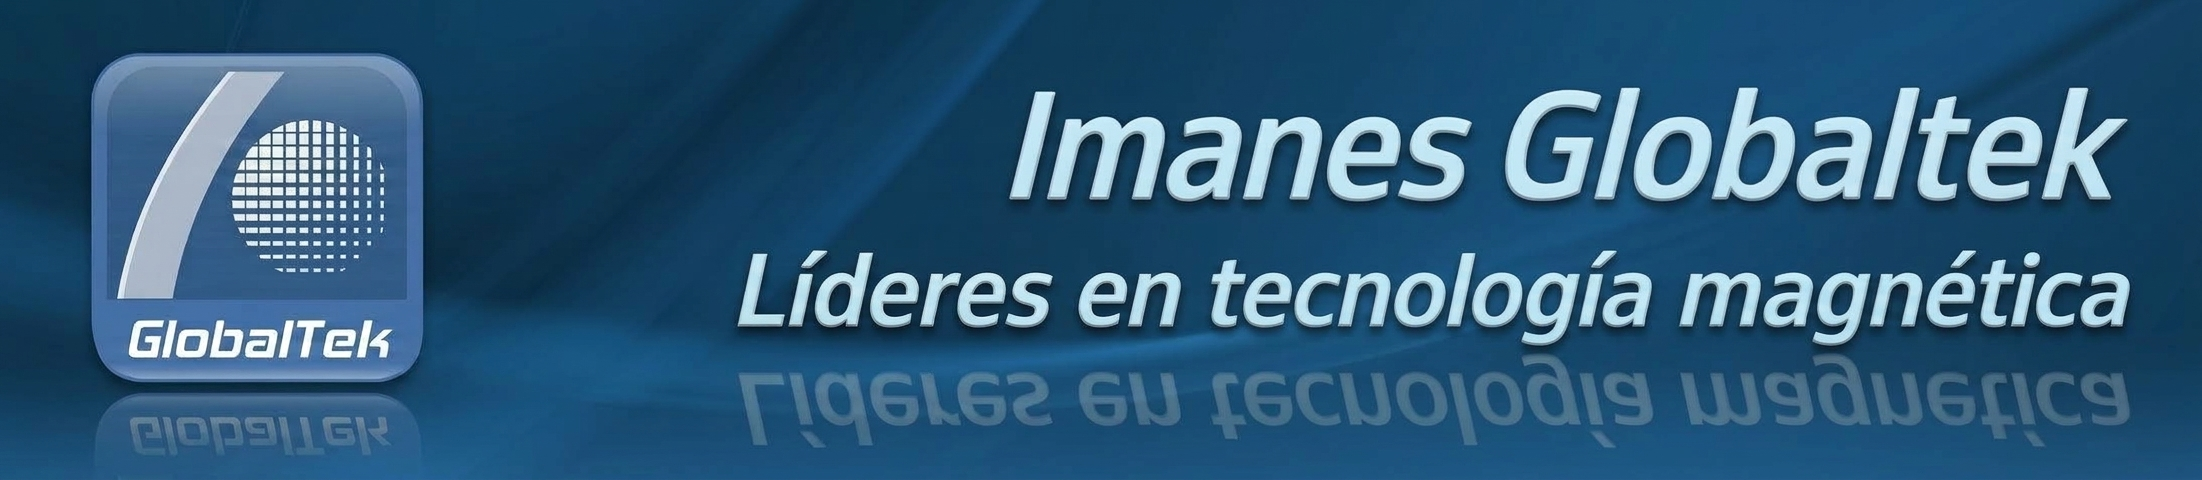
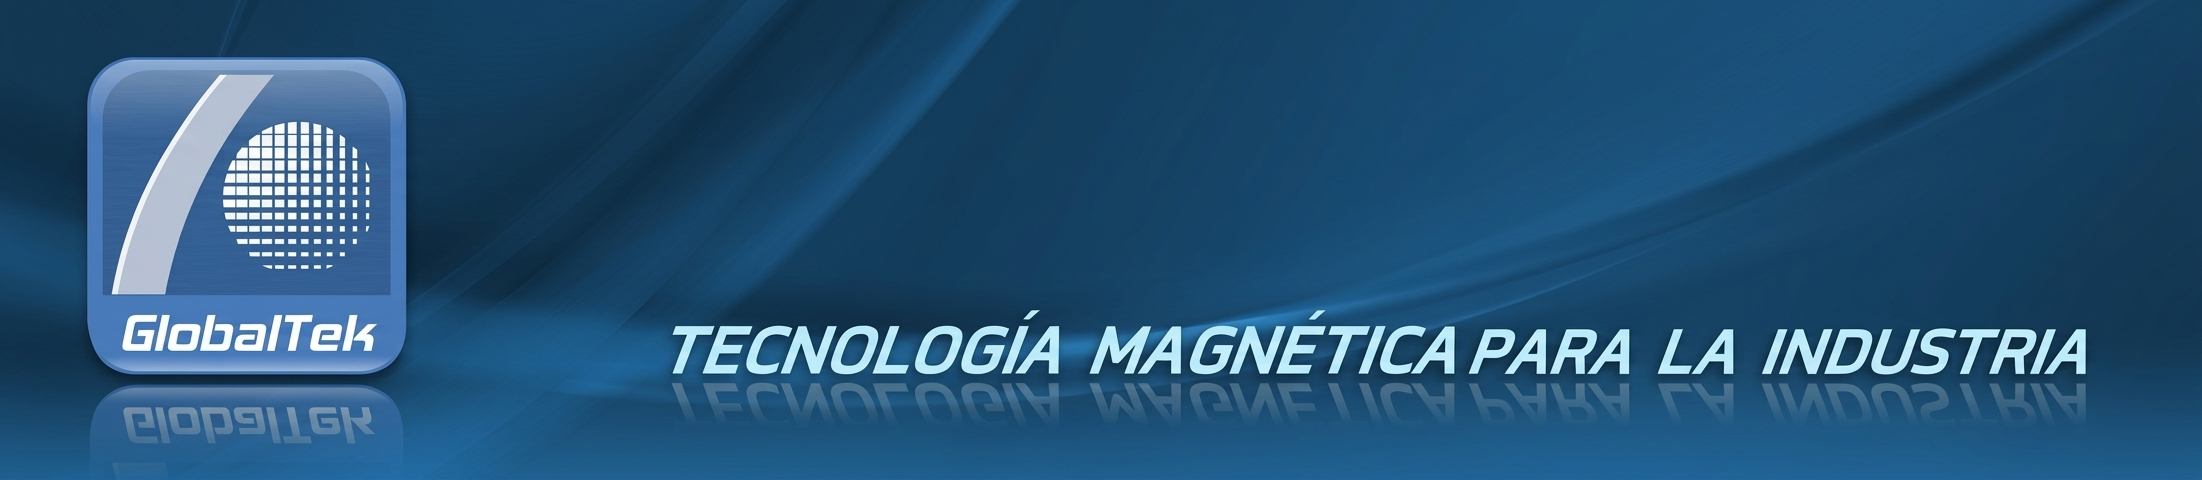
Add files via upload

diff --git a/usos-frecuentes.html b/usos-frecuentes.html
@@ -20,7 +20,7 @@
 <div class="banner-wrap">
   <picture>
     <source media="(max-width: 560px)" srcset="images/banner-mobile.jpg">
-    <img src="images/banner.jpg" alt="GlobalTek - Tecnología magnética para la industria">
+    <img src="images/banner.jpg" alt="Imanes Globaltek - Venta y distribución de imanes de neodimio, trampas y soluciones magnéticas para la industria">
   </picture>
 </div>
 
@@ -49,7 +49,7 @@
   <div class="wrap">
     <div class="eyebrow"><span class="dot"></span> Aplicaciones</div>
     <h1 style="font-size:clamp(34px,5vw,54px);">Usos frecuentes</h1>
-    <p style="color:var(--muted);font-size:17px;max-width:600px;margin-top:14px;">Qué herramienta magnética conviene según lo que necesitás, y cómo se usa en cada industria.</p>
+    <p style="color:var(--muted);font-size:17px;max-width:600px;margin-top:14px;">Herramientas y soluciones magnéticas según lo que necesite y sus aplicaciones en cada industria.</p>
   </div>
 </section>
 
@@ -107,17 +107,17 @@
         </div>
                                 <div class="carousel">
           <div class="carousel-track">
-          <div class="carousel-slide"><img src="images/usos/trampas-magneticas/01.jpg" alt="Trampas magnéticas - foto 1" loading="lazy"></div>
-          <div class="carousel-slide"><img src="images/usos/trampas-magneticas/02.jpg" alt="Trampas magnéticas - foto 2" loading="lazy"></div>
-          <div class="carousel-slide"><img src="images/usos/trampas-magneticas/03.jpg" alt="Trampas magnéticas - foto 3" loading="lazy"></div>
-          <div class="carousel-slide"><img src="images/usos/trampas-magneticas/04.jpg" alt="Trampas magnéticas - foto 4" loading="lazy"></div>
-          <div class="carousel-slide"><img src="images/usos/trampas-magneticas/05.jpg" alt="Trampas magnéticas - foto 5" loading="lazy"></div>
-          <div class="carousel-slide"><img src="images/usos/trampas-magneticas/06.jpg" alt="Trampas magnéticas - foto 6" loading="lazy"></div>
-          <div class="carousel-slide"><img src="images/usos/trampas-magneticas/07.jpg" alt="Trampas magnéticas - foto 7" loading="lazy"></div>
-          <div class="carousel-slide"><img src="images/usos/trampas-magneticas/08.jpg" alt="Trampas magnéticas - foto 8" loading="lazy"></div>
-          <div class="carousel-slide"><img src="images/usos/trampas-magneticas/09.jpg" alt="Trampas magnéticas - foto 9" loading="lazy"></div>
-          <div class="carousel-slide"><img src="images/usos/trampas-magneticas/10.jpg" alt="Trampas magnéticas - foto 10" loading="lazy"></div>
-          <div class="carousel-slide"><img src="images/usos/trampas-magneticas/11.jpg" alt="Trampas magnéticas - foto 11" loading="lazy"></div>
+          <div class="carousel-slide"><img src="images/usos/trampas-magneticas/01.jpg" alt="Trampa magnética de acero inoxidable para filtrado de tolvas y ductos - Globaltek" loading="lazy"></div>
+          <div class="carousel-slide"><img src="images/usos/trampas-magneticas/02.jpg" alt="Trampa magnética de acero inoxidable para filtrado de tolvas y ductos - Globaltek" loading="lazy"></div>
+          <div class="carousel-slide"><img src="images/usos/trampas-magneticas/03.jpg" alt="Trampa magnética de acero inoxidable para filtrado de tolvas y ductos - Globaltek" loading="lazy"></div>
+          <div class="carousel-slide"><img src="images/usos/trampas-magneticas/04.jpg" alt="Trampa magnética de acero inoxidable para filtrado de tolvas y ductos - Globaltek" loading="lazy"></div>
+          <div class="carousel-slide"><img src="images/usos/trampas-magneticas/05.jpg" alt="Trampa magnética de acero inoxidable para filtrado de tolvas y ductos - Globaltek" loading="lazy"></div>
+          <div class="carousel-slide"><img src="images/usos/trampas-magneticas/06.jpg" alt="Trampa magnética de acero inoxidable para filtrado de tolvas y ductos - Globaltek" loading="lazy"></div>
+          <div class="carousel-slide"><img src="images/usos/trampas-magneticas/07.jpg" alt="Trampa magnética de acero inoxidable para filtrado de tolvas y ductos - Globaltek" loading="lazy"></div>
+          <div class="carousel-slide"><img src="images/usos/trampas-magneticas/08.jpg" alt="Trampa magnética de acero inoxidable para filtrado de tolvas y ductos - Globaltek" loading="lazy"></div>
+          <div class="carousel-slide"><img src="images/usos/trampas-magneticas/09.jpg" alt="Trampa magnética de acero inoxidable para filtrado de tolvas y ductos - Globaltek" loading="lazy"></div>
+          <div class="carousel-slide"><img src="images/usos/trampas-magneticas/10.jpg" alt="Trampa magnética de acero inoxidable para filtrado de tolvas y ductos - Globaltek" loading="lazy"></div>
+          <div class="carousel-slide"><img src="images/usos/trampas-magneticas/11.jpg" alt="Trampa magnética de acero inoxidable para filtrado de tolvas y ductos - Globaltek" loading="lazy"></div>
           </div>
           <button class="carousel-btn prev" aria-label="Anterior">‹</button>
           <button class="carousel-btn next" aria-label="Siguiente">›</button>
@@ -138,13 +138,13 @@
         </div>
                                 <div class="carousel">
           <div class="carousel-track">
-          <div class="carousel-slide"><img src="images/usos/barredoras-magneticas/01.jpg" alt="Barredora magnética - foto 1" loading="lazy"></div>
-          <div class="carousel-slide"><img src="images/usos/barredoras-magneticas/02.jpg" alt="Barredora magnética - foto 2" loading="lazy"></div>
-          <div class="carousel-slide"><img src="images/usos/barredoras-magneticas/03.jpg" alt="Barredora magnética - foto 3" loading="lazy"></div>
-          <div class="carousel-slide"><img src="images/usos/barredoras-magneticas/04.jpg" alt="Barredora magnética - foto 4" loading="lazy"></div>
-          <div class="carousel-slide"><img src="images/usos/barredoras-magneticas/05.jpg" alt="Barredora magnética - foto 5" loading="lazy"></div>
-          <div class="carousel-slide"><img src="images/usos/barredoras-magneticas/06.jpg" alt="Barredora magnética - foto 6" loading="lazy"></div>
-          <div class="carousel-slide"><img src="images/usos/barredoras-magneticas/07.jpg" alt="Barredora magnética - foto 7" loading="lazy"></div>
+          <div class="carousel-slide"><img src="images/usos/barredoras-magneticas/01.jpg" alt="Barredora magnética industrial para recolección de residuos ferrosos - Globaltek" loading="lazy"></div>
+          <div class="carousel-slide"><img src="images/usos/barredoras-magneticas/02.jpg" alt="Barredora magnética industrial para recolección de residuos ferrosos - Globaltek" loading="lazy"></div>
+          <div class="carousel-slide"><img src="images/usos/barredoras-magneticas/03.jpg" alt="Barredora magnética industrial para recolección de residuos ferrosos - Globaltek" loading="lazy"></div>
+          <div class="carousel-slide"><img src="images/usos/barredoras-magneticas/04.jpg" alt="Barredora magnética industrial para recolección de residuos ferrosos - Globaltek" loading="lazy"></div>
+          <div class="carousel-slide"><img src="images/usos/barredoras-magneticas/05.jpg" alt="Barredora magnética industrial para recolección de residuos ferrosos - Globaltek" loading="lazy"></div>
+          <div class="carousel-slide"><img src="images/usos/barredoras-magneticas/06.jpg" alt="Barredora magnética industrial para recolección de residuos ferrosos - Globaltek" loading="lazy"></div>
+          <div class="carousel-slide"><img src="images/usos/barredoras-magneticas/07.jpg" alt="Barredora magnética industrial para recolección de residuos ferrosos - Globaltek" loading="lazy"></div>
           </div>
           <button class="carousel-btn prev" aria-label="Anterior">‹</button>
           <button class="carousel-btn next" aria-label="Siguiente">›</button>
@@ -165,9 +165,9 @@
         </div>
                                 <div class="carousel">
           <div class="carousel-track">
-          <div class="carousel-slide"><img src="images/usos/recolectoras/01.jpg" alt="Recolectora de elementos ferrosos - foto 1" loading="lazy"></div>
-          <div class="carousel-slide"><img src="images/usos/recolectoras/02.jpg" alt="Recolectora de elementos ferrosos - foto 2" loading="lazy"></div>
-          <div class="carousel-slide"><img src="images/usos/recolectoras/03.jpg" alt="Recolectora de elementos ferrosos - foto 3" loading="lazy"></div>
+          <div class="carousel-slide"><img src="images/usos/recolectoras/01.jpg" alt="Recolectora con mango de goma para elementos ferrosos - Globaltek" loading="lazy"></div>
+          <div class="carousel-slide"><img src="images/usos/recolectoras/02.jpg" alt="Recolectora de elementos ferrosos telescopico - Globaltek" loading="lazy"></div>
+          <div class="carousel-slide"><img src="images/usos/recolectoras/03.jpg" alt="Recolectora con mango de goma para elementos ferrosos - Globaltek" loading="lazy"></div>
           </div>
           <button class="carousel-btn prev" aria-label="Anterior">‹</button>
           <button class="carousel-btn next" aria-label="Siguiente">›</button>
@@ -193,10 +193,10 @@
         </ul>
                                 <div class="carousel">
           <div class="carousel-track">
-          <div class="carousel-slide"><img src="images/usos/izaje/01.jpg" alt="Elemento de izaje magnético - foto 1" loading="lazy"></div>
-          <div class="carousel-slide"><img src="images/usos/izaje/02.jpg" alt="Elemento de izaje magnético - foto 2" loading="lazy"></div>
-          <div class="carousel-slide"><img src="images/usos/izaje/03.jpg" alt="Elemento de izaje magnético - foto 3" loading="lazy"></div>
-          <div class="carousel-slide"><img src="images/usos/izaje/04.jpg" alt="Elemento de izaje magnético - foto 4" loading="lazy"></div>
+          <div class="carousel-slide"><img src="images/usos/izaje/01.jpg" alt="Equipo de izaje magnético para levantamiento de cargas pesadas - Globaltek" loading="lazy"></div>
+          <div class="carousel-slide"><img src="images/usos/izaje/02.jpg" alt="Equipo de izaje magnético para levantamiento de cargas pesadas - Globaltek" loading="lazy"></div>
+          <div class="carousel-slide"><img src="images/usos/izaje/03.jpg" alt="Equipo de izaje magnético para levantamiento de cargas pesadas - Globaltek" loading="lazy"></div>
+          <div class="carousel-slide"><img src="images/usos/izaje/04.jpg" alt="Equipo de izaje magnético para levantamiento de cargas pesadas - Globaltek" loading="lazy"></div>
           </div>
           <button class="carousel-btn prev" aria-label="Anterior">‹</button>
           <button class="carousel-btn next" aria-label="Siguiente">›</button>
@@ -213,11 +213,11 @@
         <p class="sub-intro">Existen muchas variedades de imanes permanentes: cerámicos, neodimio, alnico, flexibles y más, en una amplia gama de tamaños, formas y potencias según el uso requerido (circulares, curvos, anillos, bloques, señaladores, botones para pizarrón, esferas, barras, en láminas, etc.). Los más comunes son para fines publicitarios (serigrafías, sujeción, manualidades), aunque su uso se extiende a casi todos los sectores industriales, como la robótica, farmacéutica, automotriz o aeroespacial.</p>
                                 <div class="carousel">
           <div class="carousel-track">
-          <div class="carousel-slide"><img src="images/usos/imanes-general/01.jpg" alt="Imán - foto 1" loading="lazy"></div>
-          <div class="carousel-slide"><img src="images/usos/imanes-general/02.jpg" alt="Imán - foto 2" loading="lazy"></div>
-          <div class="carousel-slide"><img src="images/usos/imanes-general/03.jpg" alt="Imán - foto 3" loading="lazy"></div>
-          <div class="carousel-slide"><img src="images/usos/imanes-general/04.jpg" alt="Imán - foto 4" loading="lazy"></div>
-          <div class="carousel-slide"><img src="images/usos/imanes-general/05.jpg" alt="Imán - foto 5" loading="lazy"></div>
+          <div class="carousel-slide"><img src="images/usos/imanes-general/01.jpg" alt="Imanes cerámicos y de ferrite - Globaltek" loading="lazy"></div>
+          <div class="carousel-slide"><img src="images/usos/imanes-general/02.jpg" alt="Imanes de neodimio de alta potencia - Globaltek" loading="lazy"></div>
+          <div class="carousel-slide"><img src="images/usos/imanes-general/03.jpg" alt="Variedad de imanes de neodimio y cerámicos en distintos formatos - Globaltek" loading="lazy"></div>
+          <div class="carousel-slide"><img src="images/usos/imanes-general/04.jpg" alt="Imanes con perforación y avellanados para sujeción y montaje - Globaltek" loading="lazy"></div>
+          <div class="carousel-slide"><img src="images/usos/imanes-general/05.jpg" alt="Imanes de neodimio de alta potencia - Globaltek" loading="lazy"></div>
           </div>
           <button class="carousel-btn prev" aria-label="Anterior">‹</button>
           <button class="carousel-btn next" aria-label="Siguiente">›</button>
@@ -234,9 +234,9 @@
         <p class="sub-intro">Los imanes publicitarios son medios de comunicación y a la vez objetos prácticos y multifuncionales. Se emplean muy comúnmente los imanes flexibles en tiras y láminas, de diversos tamaños y tipos, siendo la solución óptima para señalización y rotulación. Siempre es posible encontrar nuevas aplicaciones de acuerdo a cada necesidad promocional.</p>
                                 <div class="carousel">
           <div class="carousel-track">
-          <div class="carousel-slide"><img src="images/usos/iman-publicidad/01.jpg" alt="Imán para publicidad - foto 1" loading="lazy"></div>
-          <div class="carousel-slide"><img src="images/usos/iman-publicidad/02.jpg" alt="Imán para publicidad - foto 2" loading="lazy"></div>
-          <div class="carousel-slide"><img src="images/usos/iman-publicidad/03.jpg" alt="Imán para publicidad - foto 3" loading="lazy"></div>
+          <div class="carousel-slide"><img src="images/usos/iman-publicidad/01.jpg" alt="Rollos de imán flexible y planchas magnéticas para cartelería - Globaltek" loading="lazy"></div>
+          <div class="carousel-slide"><img src="images/usos/iman-publicidad/02.jpg" alt="Rollos de imán flexible y planchas magnéticas para cartelería - Globaltek" loading="lazy"></div>
+          <div class="carousel-slide"><img src="images/usos/iman-publicidad/03.jpg" alt="Rollos de imán flexible y planchas magnéticas para cartelería - Globaltek" loading="lazy"></div>
           </div>
           <button class="carousel-btn prev" aria-label="Anterior">‹</button>
           <button class="carousel-btn next" aria-label="Siguiente">›</button>
@@ -253,12 +253,12 @@
         <p class="sub-intro">Imanes y accesorios pensados para magnetoterapia y biomagnetismo: parches, cinturones, muñequeras, antifaces y kits, que aplican el campo magnético sobre distintas zonas del cuerpo.</p>
                                         <div class="carousel">
           <div class="carousel-track">
-          <div class="carousel-slide"><img src="images/usos/terapias-magneticas/01.jpg" alt="Imán para terapias magnéticas - foto 1" loading="lazy"></div>
-          <div class="carousel-slide"><img src="images/usos/terapias-magneticas/02.jpg" alt="Imán para terapias magnéticas - foto 2" loading="lazy"></div>
-          <div class="carousel-slide"><img src="images/usos/terapias-magneticas/03.jpg" alt="Imán para terapias magnéticas - foto 3" loading="lazy"></div>
-          <div class="carousel-slide"><img src="images/usos/terapias-magneticas/04.jpg" alt="Imán para terapias magnéticas - foto 4" loading="lazy"></div>
-          <div class="carousel-slide"><img src="images/usos/terapias-magneticas/05.jpg" alt="Imán para terapias magnéticas - foto 5" loading="lazy"></div>
-          <div class="carousel-slide"><img src="images/usos/terapias-magneticas/06.jpg" alt="Imán para terapias magnéticas - foto 6" loading="lazy"></div>
+          <div class="carousel-slide"><img src="images/usos/terapias-magneticas/01.jpg" alt="Imanes para biomagnetismo y magnetoterapia - Globaltek" loading="lazy"></div>
+          <div class="carousel-slide"><img src="images/usos/terapias-magneticas/02.jpg" alt="Imanes para biomagnetismo y magnetoterapia - Globaltek" loading="lazy"></div>
+          <div class="carousel-slide"><img src="images/usos/terapias-magneticas/03.jpg" alt="Imanes para biomagnetismo y magnetoterapia - Globaltek" loading="lazy"></div>
+          <div class="carousel-slide"><img src="images/usos/terapias-magneticas/04.jpg" alt="Imanes para biomagnetismo y magnetoterapia - Globaltek" loading="lazy"></div>
+          <div class="carousel-slide"><img src="images/usos/terapias-magneticas/05.jpg" alt="Imanes para biomagnetismo y magnetoterapia - Globaltek" loading="lazy"></div>
+          <div class="carousel-slide"><img src="images/usos/terapias-magneticas/06.jpg" alt="Imanes para biomagnetismo y magnetoterapia - Globaltek" loading="lazy"></div>
           </div>
           <button class="carousel-btn prev" aria-label="Anterior">‹</button>
           <button class="carousel-btn next" aria-label="Siguiente">›</button>

diff --git a/index.html b/index.html
@@ -21,7 +21,7 @@
 <div class="banner-wrap">
   <picture>
     <source media="(max-width: 560px)" srcset="images/banner-mobile.jpg">
-    <img src="images/banner.jpg" alt="GlobalTek - Tecnología magnética para la industria">
+    <img src="images/banner.jpg" alt="Imanes Globaltek - Venta y distribución de imanes de neodimio, trampas y soluciones magnéticas para la industria">
   </picture>
 </div>
 
@@ -48,7 +48,7 @@
 
 <div class="company-intro">
   <div class="wrap">
-    <h2 class="company-intro-title">Imanes Globaltek</h2>
+    <div class="company-intro-title">Imanes Globaltek</div>
     <p>Líderes en tecnología magnética. Desarrollamos soluciones magnéticas para la industria, el taller y tus proyectos personales, garantizando calidad y asesoramiento profesional en todo momento.</p>
   </div>
 </div>
@@ -58,46 +58,46 @@
     <div class="slide is-active" data-bg="images/slider/ceramicos.jpg">
       <div class="slide-text">
         <span class="slide-tag">Imanes cerámicos</span>
-        <h2>Resistentes y económicos, ideales para uso general</h2>
+        <div class="slide-title">Resistentes y económicos, ideales para uso general</div>
       </div>
       <a class="btn btn-slide" href="usos-frecuentes.html#imanes-general">Ver más</a>
     </div>
     <div class="slide" data-bg="images/slider/neodimio.jpg">
       <div class="slide-text">
         <span class="slide-tag">Imanes de neodimio</span>
-        <h2>Los más potentes, para las aplicaciones más exigentes</h2>
+        <div class="slide-title">Los más potentes, para las aplicaciones más exigentes</div>
       </div>
       <a class="btn btn-slide" href="usos-frecuentes.html#imanes-general">Ver más</a>
     </div>
     <div class="slide" data-bg="images/slider/trampas.jpg">
       <div class="slide-text">
         <span class="slide-tag">Separadores magnéticos</span>
-        <h2>Retienen residuos ferrosos en bandas transportadoras y ductos</h2>
+        <div class="slide-title">Retienen residuos ferrosos en bandas transportadoras y ductos</div>
       </div>
       <a class="btn btn-slide" href="usos-frecuentes.html#trampas-magneticas">Ver más</a>
     </div>
     <div class="slide">
       <div class="slide-text">
         <span class="slide-tag">Envíos</span>
-        <h2>Envíos a todo el país</h2>
+        <div class="slide-title">Envíos a todo el país</div>
       </div>
     </div>
     <div class="slide">
       <div class="slide-text">
         <span class="slide-tag">Venta</span>
-        <h2>Venta mayorista y minorista</h2>
+        <div class="slide-title">Venta mayorista y minorista</div>
       </div>
     </div>
     <div class="slide">
       <div class="slide-text">
         <span class="slide-tag">A medida</span>
-        <h2>Proyectos a medida para todo tipo de industria</h2>
+        <div class="slide-title">Proyectos a medida para todo tipo de industria</div>
       </div>
     </div>
     <div class="slide">
       <div class="slide-text">
         <span class="slide-tag">Trayectoria</span>
-        <h2>+20 años proveyendo imanes y tecnología magnética a las industrias</h2>
+        <div class="slide-title">+20 años proveyendo imanes y tecnología magnética a las industrias</div>
       </div>
     </div>
   </div>
@@ -124,12 +124,12 @@
       <p class="frase-destacada">Del taller a la planta industrial: soluciones magnéticas para cada etapa del proceso.</p>
     </div>
     <div class="grid">
-      <a class="card" href="usos-frecuentes.html#barredoras-magneticas"><span class="idx mono"></span><img class="card-photo" src="images/slider/herramientas.jpg" alt="Herramientas magnéticas" loading="lazy"><h3>Herramientas magnéticas</h3><p>Barredoras, recolectores extensibles, levantadores y separadores para uso industrial.</p></a>
-      <a class="card" href="usos-frecuentes.html#trampas-magneticas"><span class="idx mono"></span><img class="card-photo" src="images/usos/trampas-magneticas/01.jpg" alt="Trampas magnéticas" loading="lazy"><h3>Trampas magnéticas</h3><p>Para filtrado y remoción de residuos ferrosos en líneas de producción y tolvas.</p></a>
-      <a class="card" href="usos-frecuentes.html#izaje"><span class="idx mono"></span><img class="card-photo" src="images/usos/izaje/01.jpg" alt="Equipamiento industrial" loading="lazy"><h3>Equipamiento industrial</h3><p>Elementos de izaje y equipos complementarios.</p></a>
-      <a class="card" href="usos-frecuentes.html#imanes-general"><span class="idx mono"></span><img class="card-photo" src="images/usos/imanes-general/01.jpg" alt="Imanes en general" loading="lazy"><h3>Imanes en general</h3><p>Neodimio, ferrite y alnico en distintos formatos.</p></a>
-      <a class="card" href="usos-frecuentes.html#iman-publicidad"><span class="idx mono"></span><img class="card-photo" src="images/usos/iman-publicidad/01.jpg" alt="Imán para publicidad" loading="lazy"><h3>Imán para publicidad</h3><p>Soluciones magnéticas para cartelería y merchandising.</p></a>
-      <a class="card" href="usos-frecuentes.html#terapias-magneticas"><span class="idx mono"></span><img class="card-photo" src="images/usos/terapias-magneticas/01.jpg" alt="Magnetoterapia y Biomagnetismo" loading="lazy"><h3>Magnetoterapia y Biomagnetismo</h3><p>Productos para terapias magneticas.</p></a>
+      <a class="card" href="usos-frecuentes.html#barredoras-magneticas"><span class="idx mono"></span><img class="card-photo" src="images/slider/herramientas.jpg" alt="Herramientas magnéticas - Globaltek" loading="lazy"><h3>Herramientas magnéticas</h3><p>Barredoras, recolectores extensibles, levantadores y separadores para uso industrial.</p></a>
+      <a class="card" href="usos-frecuentes.html#trampas-magneticas"><span class="idx mono"></span><img class="card-photo" src="images/usos/trampas-magneticas/01.jpg" alt="Trampas magnéticas de alta potencia - Globaltek" loading="lazy"><h3>Trampas magnéticas</h3><p>Para filtrado y remoción de residuos ferrosos en líneas de producción y tolvas.</p></a>
+      <a class="card" href="usos-frecuentes.html#izaje"><span class="idx mono"></span><img class="card-photo" src="images/usos/izaje/01.jpg" alt="Equipamiento industrial - Globaltek" loading="lazy"><h3>Equipamiento industrial</h3><p>Elementos de izaje y equipos complementarios.</p></a>
+      <a class="card" href="usos-frecuentes.html#imanes-general"><span class="idx mono"></span><img class="card-photo" src="images/usos/imanes-general/01.jpg" alt="Imanes de ferrite y neodimio - Globaltek" loading="lazy"><h3>Imanes en general</h3><p>Neodimio, ferrite y alnico en distintos formatos.</p></a>
+      <a class="card" href="usos-frecuentes.html#iman-publicidad"><span class="idx mono"></span><img class="card-photo" src="images/usos/iman-publicidad/01.jpg" alt="Imán para publicidad - Globaltek" loading="lazy"><h3>Imán para publicidad</h3><p>Soluciones magnéticas para cartelería y merchandising.</p></a>
+      <a class="card" href="usos-frecuentes.html#terapias-magneticas"><span class="idx mono"></span><img class="card-photo" src="images/usos/terapias-magneticas/01.jpg" alt="Imanes para Magnetoterapia y Biomagnetismo - Globaltek" loading="lazy"><h3>Magnetoterapia y Biomagnetismo</h3><p>Productos para terapias magneticas.</p></a>
     </div>
   </div>
 </section>

diff --git a/nosotros.html b/nosotros.html
@@ -63,22 +63,22 @@
       <div><span class="tag">Catálogo</span><h2>Productos y servicios que ofrecemos</h2></div>
     </div>
     <div class="offer-grid">
-      <div class="offer-card"><div class="chip"></div><h4>Imanes cerámicos, neodimio y alnico</h4></div>
-      <div class="offer-card"><div class="chip"></div><h4>Trampas magnéticas según necesidad del cliente</h4></div>
-      <div class="offer-card"><div class="chip"></div><h4>Rollos de imán por metro o rollo completo</h4></div>
-      <div class="offer-card"><div class="chip"></div><h4>Cintas de imán flexible</h4></div>
-      <div class="offer-card"><div class="chip"></div><h4>Reductores de sarro y optimizadores de combustion</h4></div>
-      <div class="offer-card"><div class="chip"></div><h4>Elementos de izaje magnéticos</h4></div>
-      <div class="offer-card"><div class="chip"></div><h4>Barredoras magnéticas</h4></div>
-      <div class="offer-card"><div class="chip"></div><h4>Recolectoras de elementos ferrosos</h4></div>
-      <div class="offer-card"><div class="chip"></div><h4>Imanes para magnetoteriapia y biomagnetismo</h4></div>
+      <a class="offer-card" href="usos-frecuentes.html#imanes-general"><div class="chip"></div><h4>Imanes cerámicos, neodimio y alnico</h4></a>
+      <a class="offer-card" href="usos-frecuentes.html#trampas-magneticas"><div class="chip"></div><h4>Trampas magnéticas según necesidad del cliente</h4></a>
+      <a class="offer-card" href="usos-frecuentes.html#iman-publicidad"><div class="chip"></div><h4>Rollos de imán por metro o rollo completo</h4></a>
+      <a class="offer-card" href="usos-frecuentes.html#iman-publicidad"><div class="chip"></div><h4>Cintas de imán flexible</h4></a>
+      <a class="offer-card" href="usos-frecuentes.html#recolectoras"><div class="chip"></div><h4>Reductores de sarro y optimizadores de combustion</h4></a>
+      <a class="offer-card" href="usos-frecuentes.html#izaje"><div class="chip"></div><h4>Elementos de izaje magnéticos</h4></a>
+      <a class="offer-card" href="usos-frecuentes.html#barredoras-magneticas"><div class="chip"></div><h4>Barredoras magnéticas</h4></a>
+      <a class="offer-card" href="usos-frecuentes.html#recolectoras"><div class="chip"></div><h4>Recolectoras de elementos ferrosos</h4></a>
+      <a class="offer-card" href="usos-frecuentes.html#terapias-magneticas"><div class="chip"></div><h4>Imanes para magnetoteriapia y biomagnetismo</h4></a>
     </div>
 
     <div class="service-highlight">
       <div class="ic">⚡</div>
       <div class="txt">
         <h3>SERVICIOS DE MEDICION Y EVALUACION DE DISPOSITIVOS MAGNETICOS.</h3>
-        <p>Ofrecemos el servicio de medición para verificar que tus trampas magnéticas mantengan la fuerza necesaria para un desempeño seguro y eficiente.</p>
+        <p>Ofrecemos el servicio de medición para verificar que las trampas magnéticas de su empresa mantengan la fuerza y efectividad necesarias para un desempeño seguro y eficiente</p>
       </div>
       <div class="badge"> <a href="contacto.html">Solicitar servicio</a></div>
     </div>

diff --git a/contacto.html b/contacto.html
@@ -20,7 +20,7 @@
 <div class="banner-wrap">
   <picture>
     <source media="(max-width: 560px)" srcset="images/banner-mobile.jpg">
-    <img src="images/banner.jpg" alt="GlobalTek - Tecnología magnética para la industria">
+    <img src="images/banner.jpg" alt="Imanes Globaltek - Venta y distribución de imanes de neodimio, trampas y soluciones magnéticas para la industria">
   </picture>
 </div>
 
@@ -49,7 +49,7 @@
   <div class="wrap">
     <div class="eyebrow"><span class="dot"></span> Estamos para ayudarte</div>
     <h1 style="font-size:clamp(34px,5vw,54px);">Contacto</h1>
-    <p style="color:var(--muted);font-size:17px;max-width:560px;margin-top:14px;">Escribinos por el formulario o contactanos directo por WhatsApp o email. Te respondemos a la brevedad.</p>
+    <p style="color:var(--muted);font-size:17px;max-width:560px;margin-top:14px;">Complete el formulario o comuníquese directamente por WhatsApp o correo electrónico. Nuestro equipo le responderá a la brevedad.</p>
   </div>
 </section>
 
@@ -79,7 +79,7 @@
         <div class="field"><label for="asunto">Asunto</label><input id="asunto" type="text" placeholder="¿En qué te podemos ayudar?"></div>
         <div class="field"><label for="mensaje">Mensaje</label><textarea id="mensaje" placeholder="Contanos qué necesitás..." required></textarea></div>
         <button class="form-submit" type="submit">Enviar consulta</button>
-        <p class="form-note">Te respondemos a la brevedad por email o WhatsApp.</p>
+        <p class="form-note">Le responderemos a la brevedad por correo electrónico o WhatsApp.</p>
       </form>
 
       <div>

diff --git a/css/styles.css b/css/styles.css
@@ -274,6 +274,11 @@ html[data-theme="oscuro"] .theme-toggle .bulb-fill {
 }
 
 .company-intro-title {
+  font-family: 'Barlow Condensed', sans-serif;
+  font-weight: 900;
+  text-transform: uppercase;
+  line-height: .98;
+  color: var(--ink);
   font-size: 26px;
   margin-bottom: 8px;
 }
@@ -375,7 +380,10 @@ html[data-theme="oscuro"] .theme-toggle .bulb-fill {
   margin-bottom: 10px;
 }
 
-.slide-text h2 {
+.slide-text .slide-title {
+  font-family: 'Barlow Condensed', sans-serif;
+  font-weight: 900;
+  text-transform: uppercase;
   color: #fff;
   font-size: clamp(24px, 3.6vw, 38px);
   line-height: 1.15;
@@ -773,7 +781,8 @@ footer {
 }
 
 html[data-theme="claro"] footer {
-  background: var(--panel-2);
+  background: #D3E2F1;
+  --line: #B4C9DE;
 }
 
 .foot-main {
@@ -1375,8 +1384,20 @@ html[data-theme="oscuro"] .contact-map-big iframe {
 }
 
 .offer-card {
+  display: block;
   background: var(--panel);
   padding: 22px;
+  text-decoration: none;
+  color: inherit;
+  transition: background .15s;
+}
+
+a.offer-card:hover {
+  background: var(--blue-050);
+}
+
+a.offer-card:hover h4 {
+  color: var(--blue-500);
 }
 
 .offer-card .chip {
